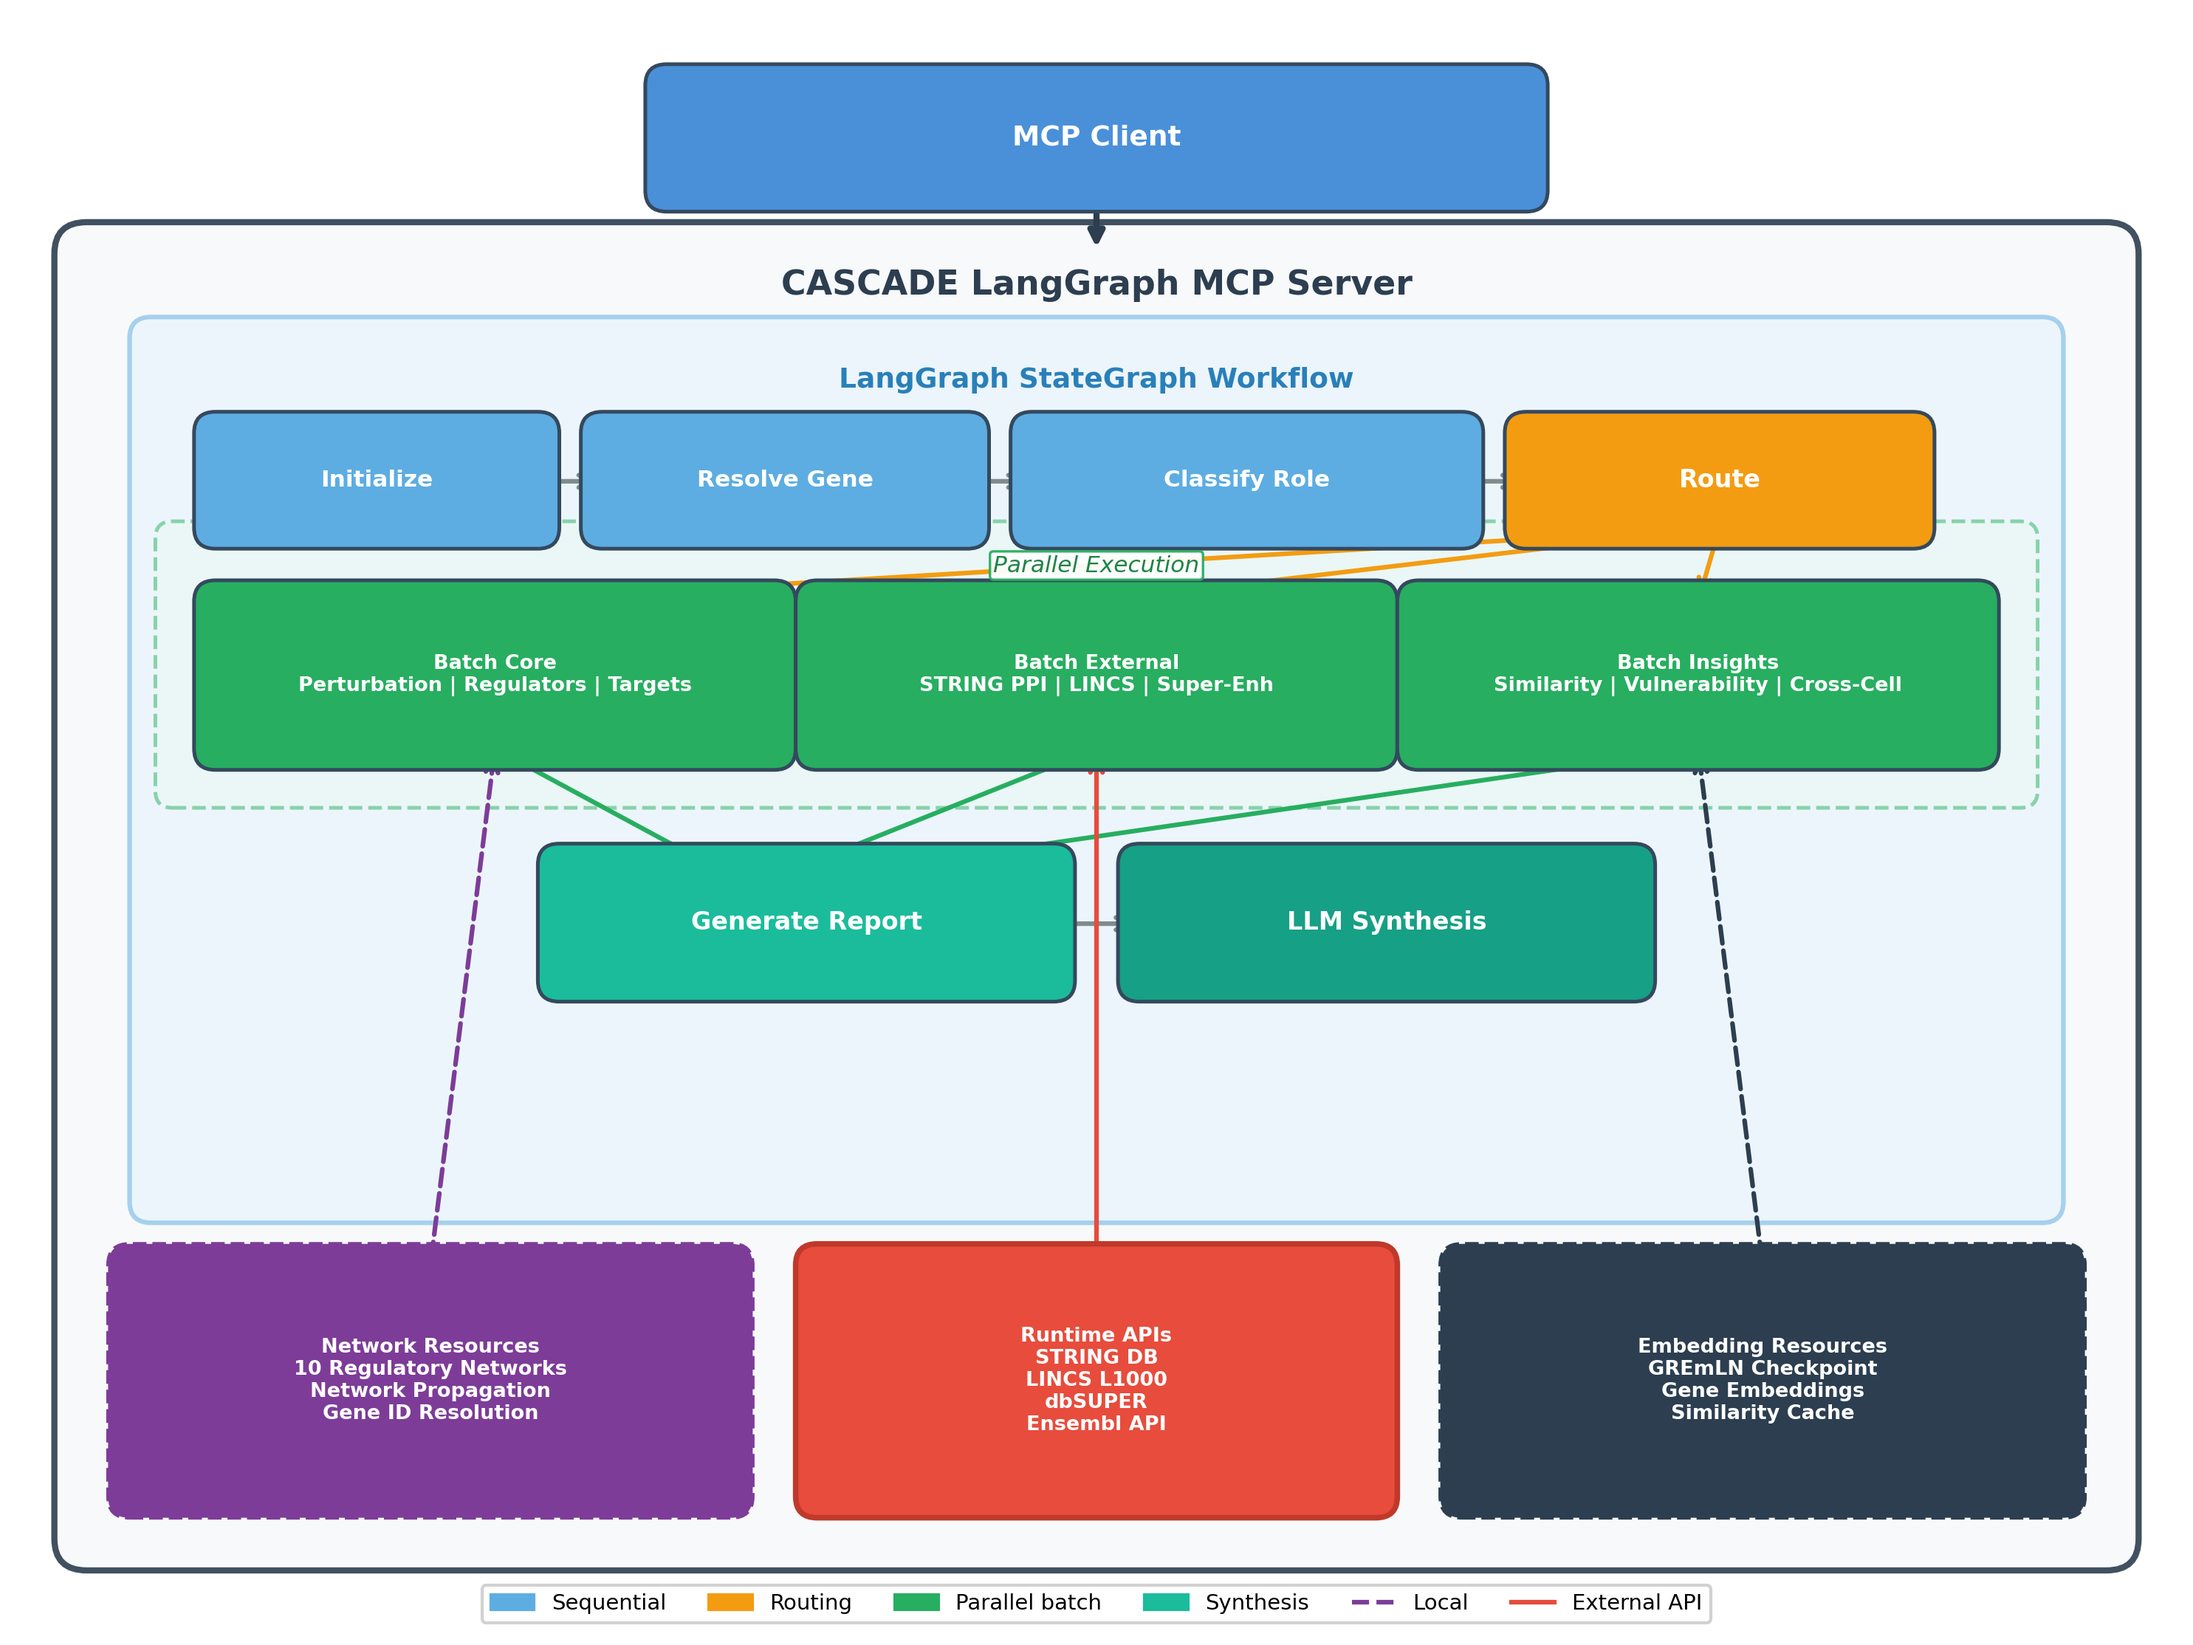
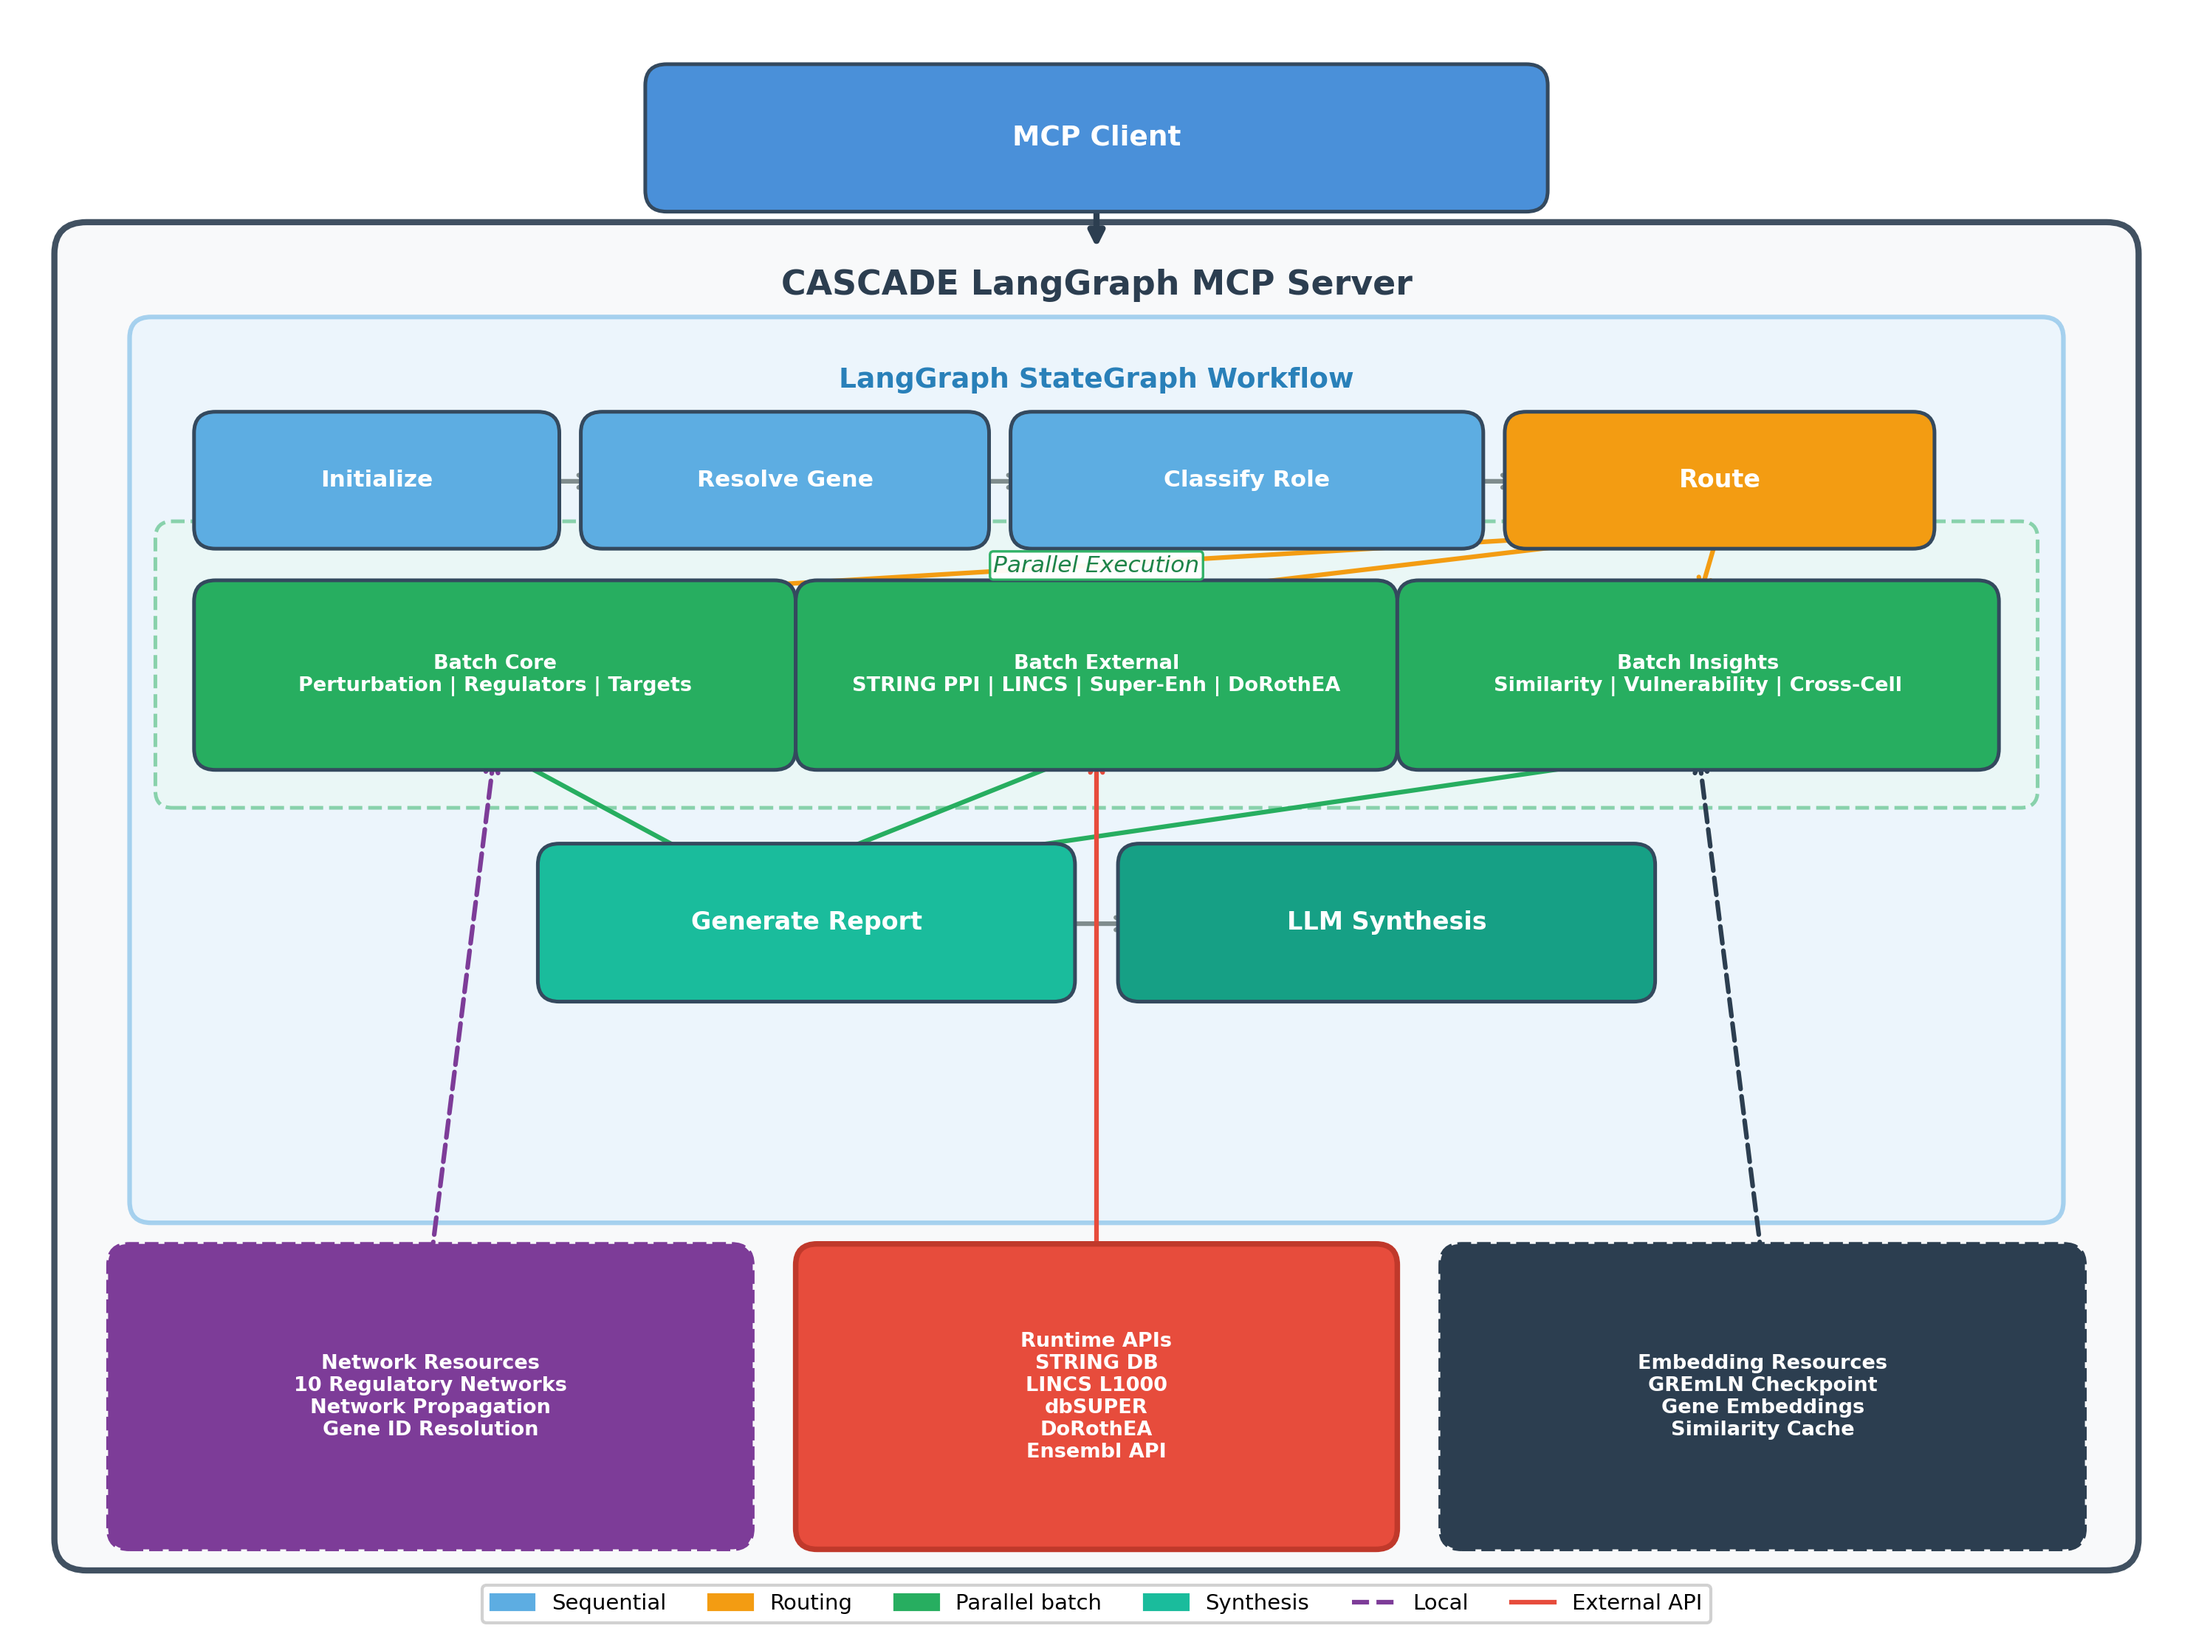
Update architecture figure to include DoRothEA in Batch External and Runtime APIs

Changed region(s): [[0.031, 0.8052, 0.9603, 0.9601], [0.4027, 0.4026, 0.6195, 0.4336]]

diff --git a/generate_figure.py b/generate_figure.py
@@ -94,7 +94,7 @@ ax.text(5.0, 4.92, 'Parallel Execution', ha='center', va='center',
 box(0.9, 4.05, 2.6, 0.7, C_BATCH,
     'Batch Core\nPerturbation | Regulators | Targets', fontsize=6.5)
 box(3.7, 4.05, 2.6, 0.7, C_BATCH,
-    'Batch External\nSTRING PPI | LINCS | Super-Enh', fontsize=6.5)
+    'Batch External\nSTRING PPI | LINCS | Super-Enh | DoRothEA', fontsize=6.5)
 box(6.5, 4.05, 2.6, 0.7, C_BATCH,
     'Batch Insights\nSimilarity | Vulnerability | Cross-Cell', fontsize=6.5)
 
@@ -118,17 +118,17 @@ arrow(4.8, 3.22, 5.2, 3.22)
 # === Row 4: Data sources (aligned under their batch nodes) ===
 
 # Network Resources (left, under Batch Core) — dashed border = local
-box(0.5, 0.5, 2.8, 1.1, C_LOCAL,
+box(0.5, 0.35, 2.8, 1.25, C_LOCAL,
     'Network Resources\n10 Regulatory Networks\nNetwork Propagation\nGene ID Resolution',
     fontsize=6.5, linestyle='dashed', edgecolor=C_LOCAL)
 
 # Runtime APIs (center, under Batch External) — solid border = external
-box(3.7, 0.5, 2.6, 1.1, C_EXTERNAL,
-    'Runtime APIs\nSTRING DB\nLINCS L1000\ndbSUPER\nEnsembl API',
+box(3.7, 0.35, 2.6, 1.25, C_EXTERNAL,
+    'Runtime APIs\nSTRING DB\nLINCS L1000\ndbSUPER\nDoRothEA\nEnsembl API',
     fontsize=6.5, edgecolor='#C0392B', lw=1.8)
 
 # Embedding Resources (right, under Batch Insights) — dashed border = local
-box(6.7, 0.5, 2.8, 1.1, C_EMBED,
+box(6.7, 0.35, 2.8, 1.25, C_EMBED,
     'Embedding Resources\nGREmLN Checkpoint\nGene Embeddings\nSimilarity Cache',
     fontsize=6.5, linestyle='dashed', edgecolor=C_EMBED)
 
